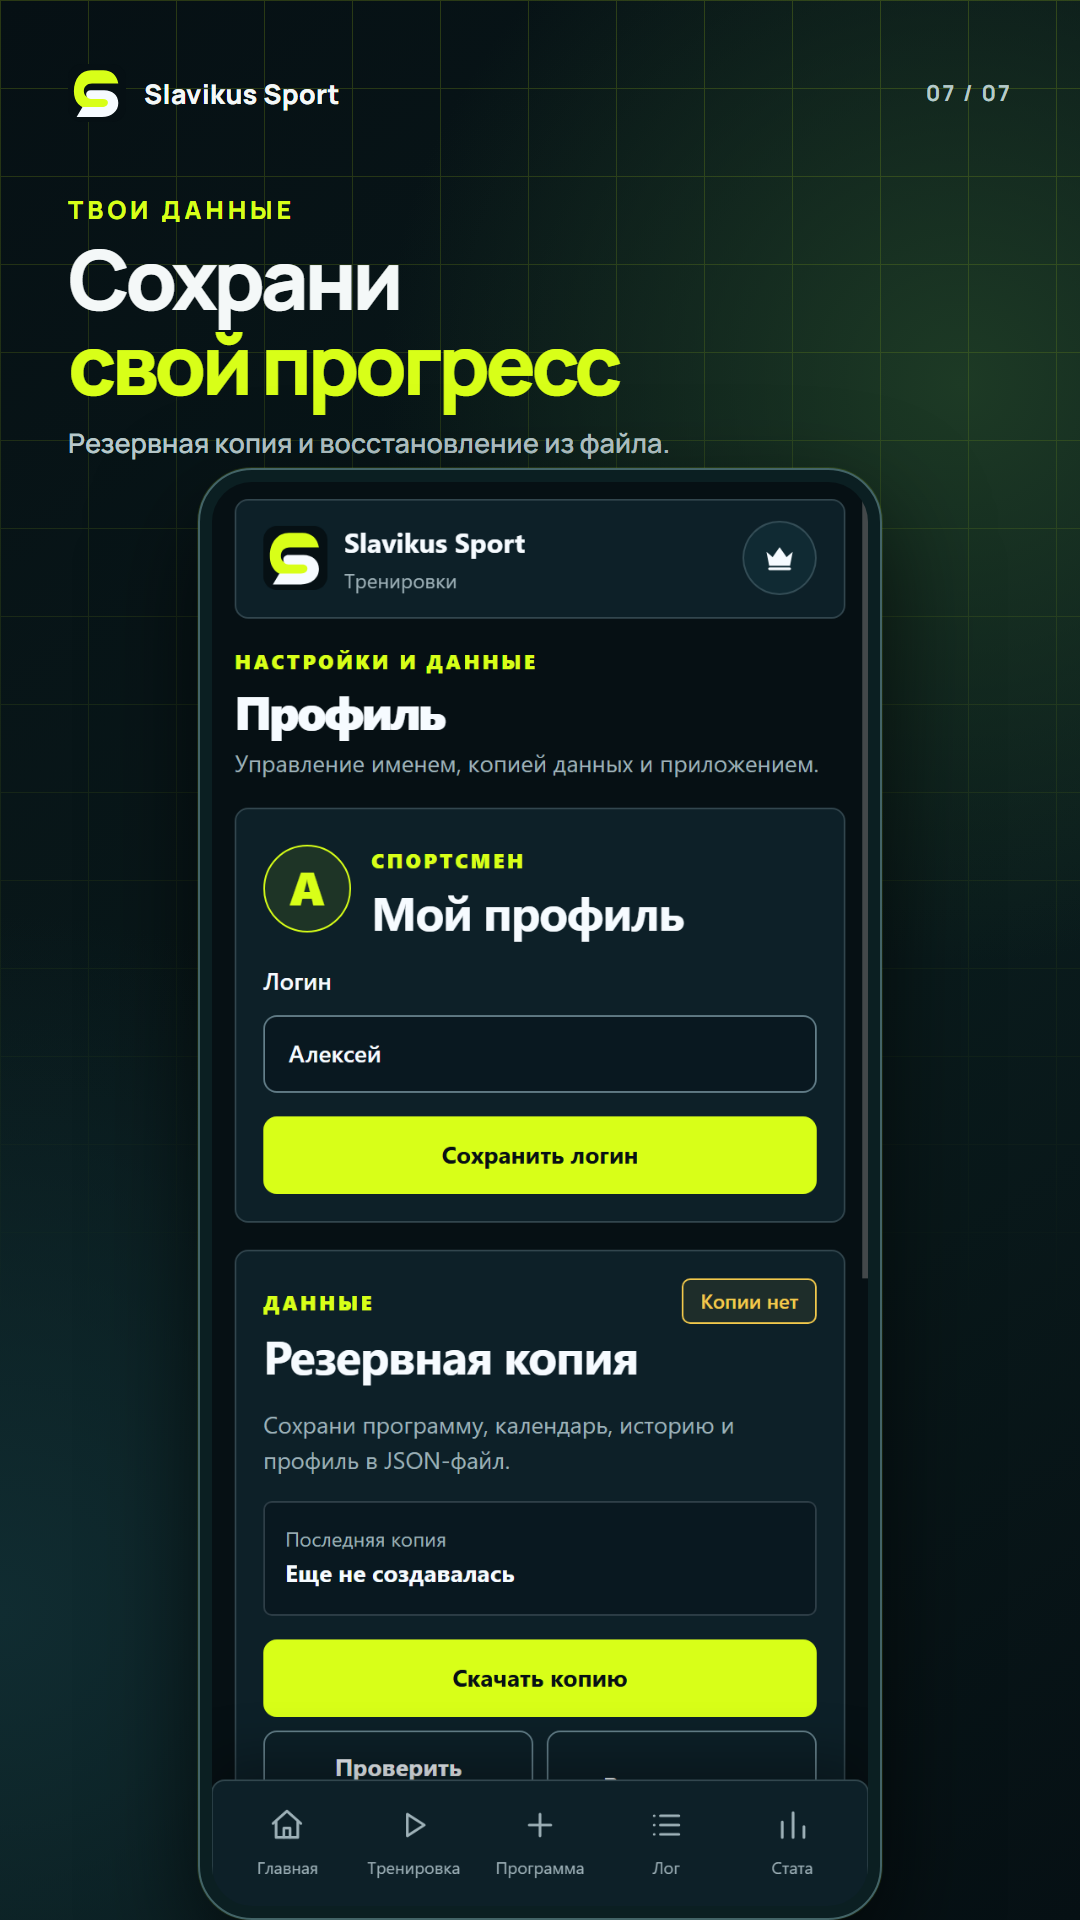
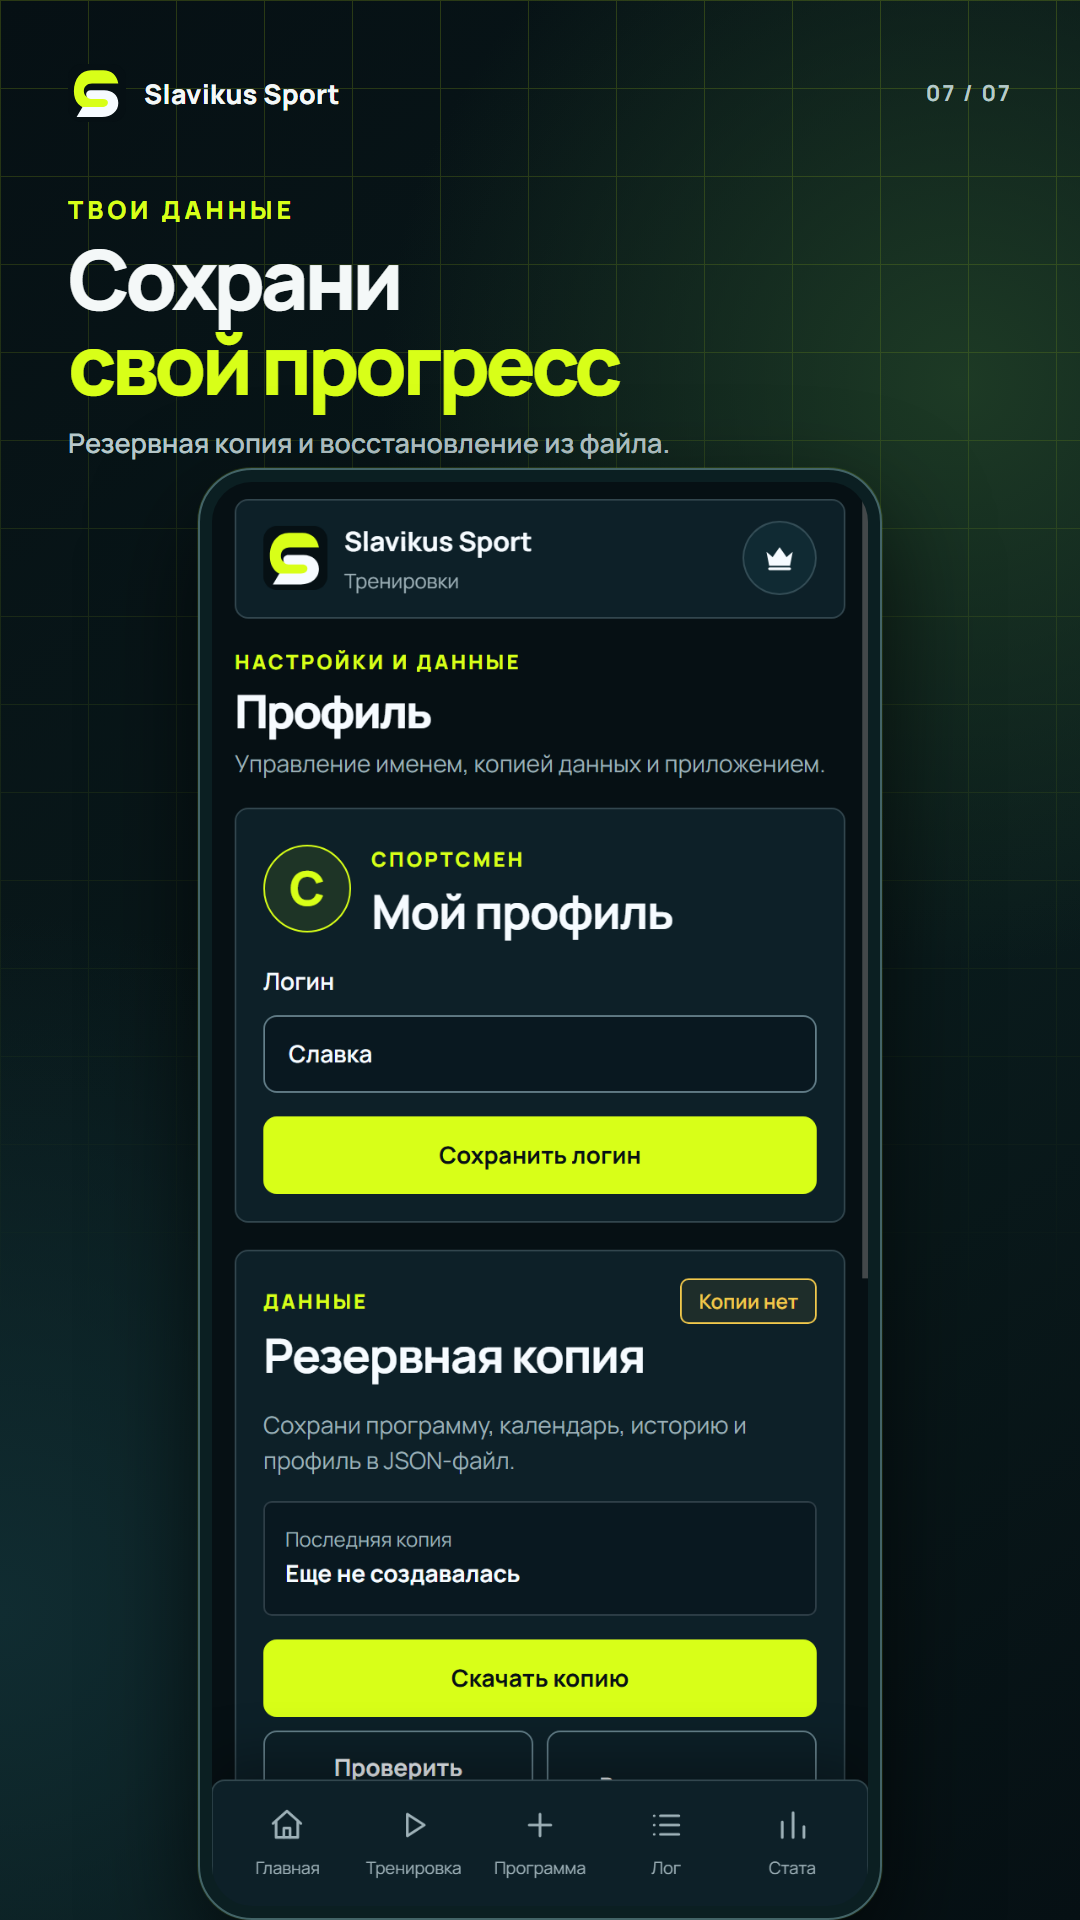
Use Slavka in profile store screenshot

diff --git a/rustore-assets/README.md b/rustore-assets/README.md
@@ -6,4 +6,6 @@
 
 Для повторной съёмки запусти локальный сервер командой `npm run dev`, затем в другом терминале выполни `node scripts/render-store-screens.mjs`. Скрипт использует локальный Google Chrome и заменяет изображения в `screenshots/`. Данные пользователя и резервные копии не используются.
 
+Чтобы переснять один кадр, передай его имя: `node scripts/render-store-screens.mjs 07-profile.png`.
+
 Перед загрузкой в RuStore проверь изображения после возможных изменений интерфейса. Предел магазина для телефонного скриншота — 3 МБ; текущие файлы меньше 1 МБ каждый.
